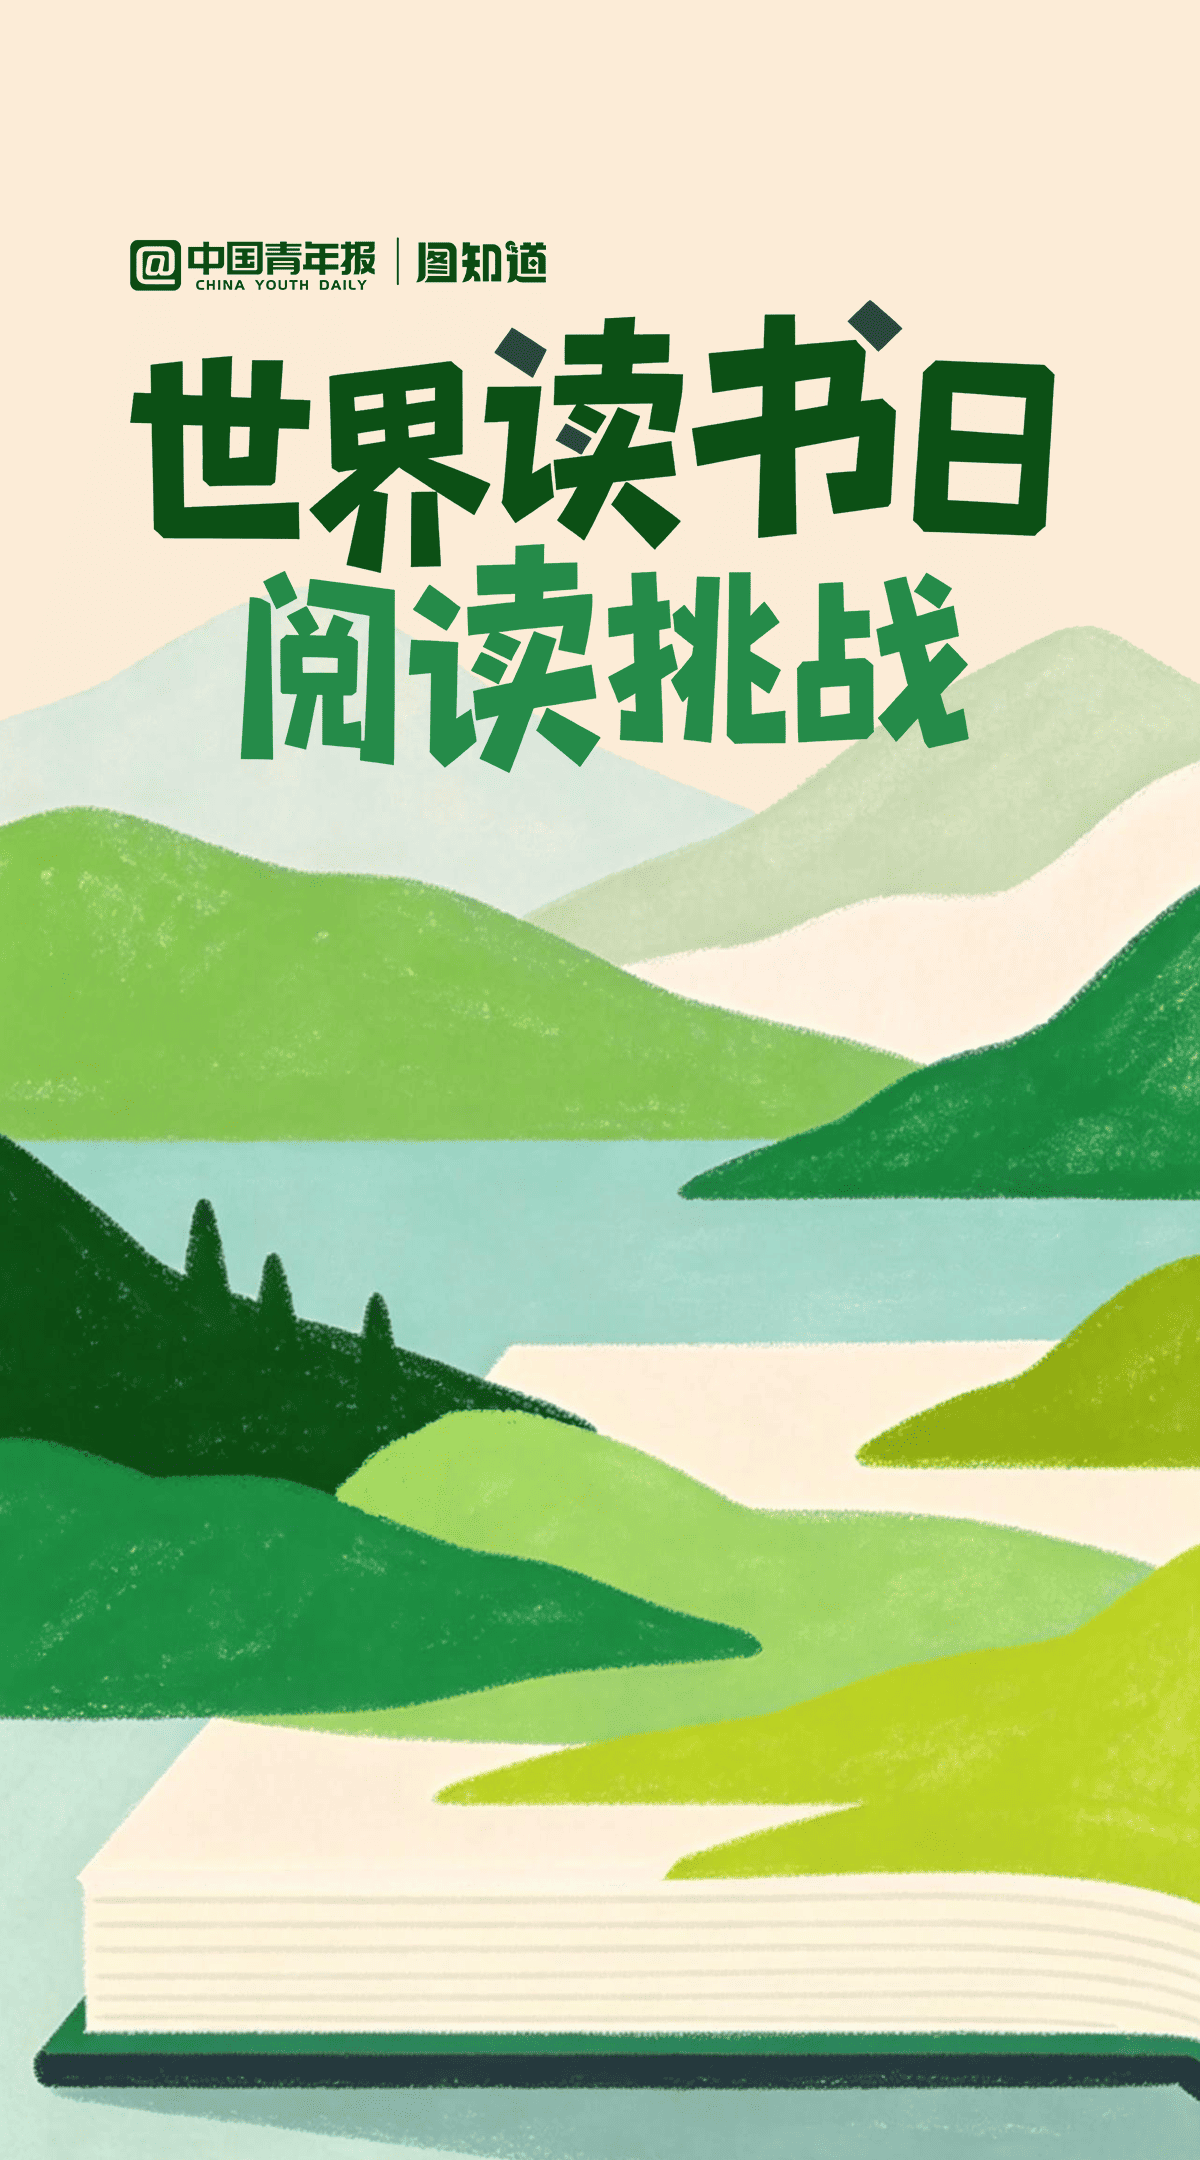
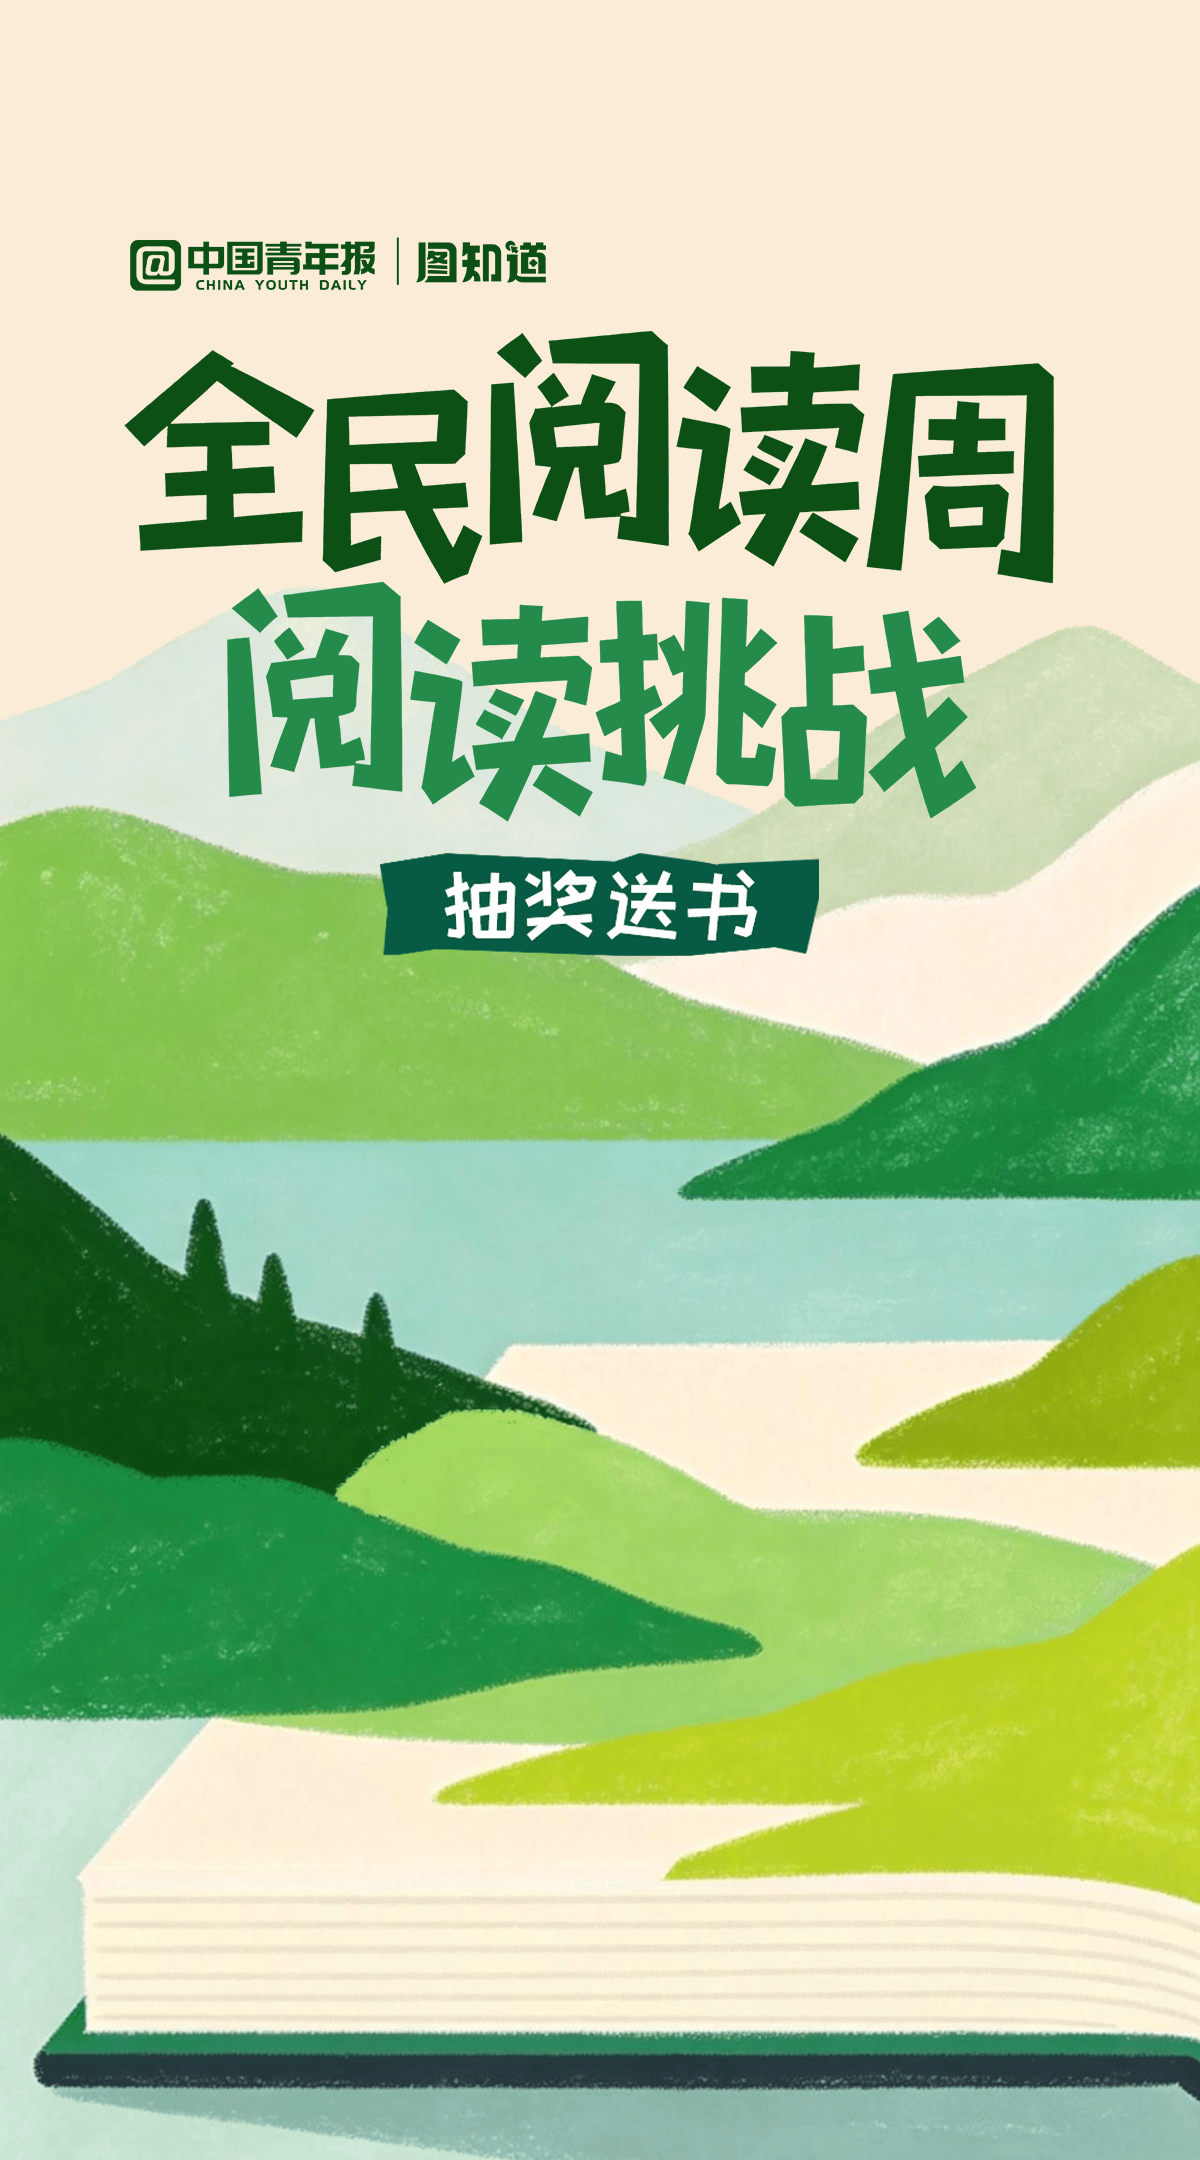
P2 P1 P8

Changed region(s): [[0.0925, 0.1241, 0.8942, 0.4653]]

diff --git a/index.html b/index.html
@@ -761,6 +761,25 @@
       height: auto;
     }
 
+    .popup-mask.result-mode {
+      padding: 4vw;
+      background: rgba(8, 6, 4, 0.78);
+    }
+
+    .popup-mask.result-mode .popup-card {
+      width: 96vw;
+      height: auto;
+    }
+
+    .popup-mask.result-mode .popup-image {
+      width: 100%;
+      height: auto;
+    }
+
+    .popup-mask.result-mode .popup-enter {
+      display: none;
+    }
+
     .popup-close {
       position: absolute;
       top: 19%;
@@ -1431,15 +1450,27 @@
       function showPopup(mode) {
         state.popupVisible = true;
         state.popupMode = mode;
-        popupMask.classList.remove("analysis-mode", "notice-mode");
-        popupMask.classList.add(mode === "notice" ? "notice-mode" : "analysis-mode");
+        popupMask.classList.remove("analysis-mode", "notice-mode", "result-mode");
+        popupEnter.style.display = "";
         if (mode === "notice") {
+          popupMask.classList.add("notice-mode");
           popupImage.src = "./assets/p2/pop-up_notification-read.png";
           popupImage.alt = "挑战提示";
           popupEnterImg.src = "./assets/p2/begin_the_challenge.png";
           popupEnterImg.alt = "开始挑战";
           popupEnter.setAttribute("aria-label", "开始挑战");
-        } else {
+        } else if (mode === "result-correct") {
+          popupMask.classList.add("result-mode");
+          popupImage.src = "./assets/p2/Correct_answer.png";
+          popupImage.alt = "回答正确";
+          popupEnter.style.display = "none";
+        } else if (mode === "result-wrong") {
+          popupMask.classList.add("result-mode");
+          popupImage.src = "./assets/p2/Wrong_answer.png";
+          popupImage.alt = "回答错误";
+          popupEnter.style.display = "none";
+        } else if (mode === "analysis") {
+          popupMask.classList.add("analysis-mode");
           popupImage.src = "./assets/p2/Answer_Analysis.png";
           popupImage.alt = "答案解析";
           popupEnterImg.src = "./assets/p2/Continue_to_participate.png";
@@ -1454,7 +1485,8 @@
         state.popupVisible = false;
         state.popupMode = "";
         popupMask.classList.remove("show");
-        popupMask.classList.remove("analysis-mode", "notice-mode");
+        popupMask.classList.remove("analysis-mode", "notice-mode", "result-mode");
+        popupEnter.style.display = "";
         popupMask.setAttribute("aria-hidden", "true");
       }
 
@@ -1523,22 +1555,22 @@
         syncP2SubmitButtonState();
       }
 
-      async function handleP2Submit() {
+      function handleP2Submit() {
         if (!state.p2SelectedOptions.length) {
           return;
         }
         if (isP2AnswerCorrect()) {
-          if (!await ensureUserIdentity()) {
-            return;
-          }
-          hidePopup();
-          startP3ChallengeFlow();
+          showPopup("result-correct");
           return;
         }
-        showPopup("analysis");
+        showPopup("result-wrong");
       }
 
       async function handleP2PopupEnter() {
+        if (state.popupMode === "result-correct" || state.popupMode === "result-wrong") {
+          showPopup("analysis");
+          return;
+        }
         if (state.popupMode === "analysis") {
           showPopup("notice");
           return;
@@ -1885,6 +1917,8 @@
           "./assets/p2/op5.png",
           "./assets/p2/op5_s.png",
           "./assets/p2/Answer_Analysis.png",
+          "./assets/p2/Correct_answer.png",
+          "./assets/p2/Wrong_answer.png",
           "./assets/p2/pop-up_notification-read.png",
           "./assets/p2/Continue_to_participate.png",
           "./assets/p2/begin_the_challenge.png",
@@ -1933,13 +1967,13 @@
         enterPage2();
       });
       musicBtn.addEventListener("click", toggleMusic);
-      popupMask.addEventListener("click", (event) => {
-        if (event.target === popupMask) {
-          hidePopup();
+      popupMask.addEventListener("click", () => {
+        if (!state.popupVisible) {
+          return;
         }
+        void handleP2PopupEnter();
       });
       p2SubmitBtn.addEventListener("click", handleP2Submit);
-      popupEnter.addEventListener("click", handleP2PopupEnter);
       finishedReadingBtn.addEventListener("click", () => {
         if (state.p3ReadingSeconds > 0) {
           return;